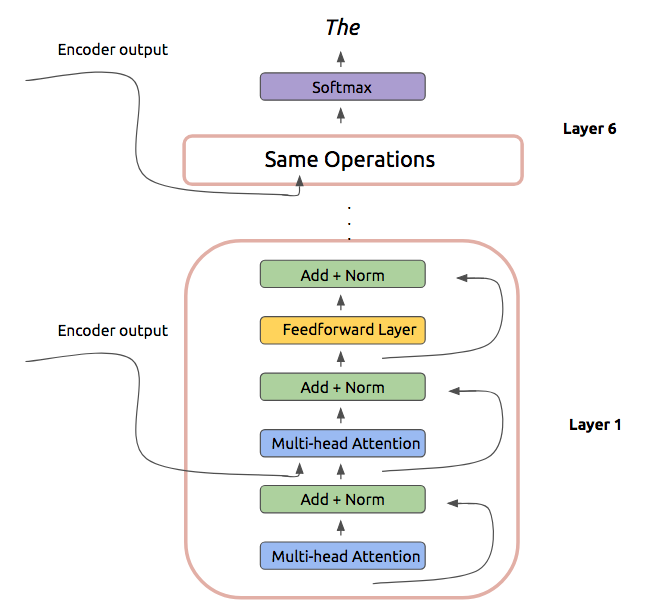
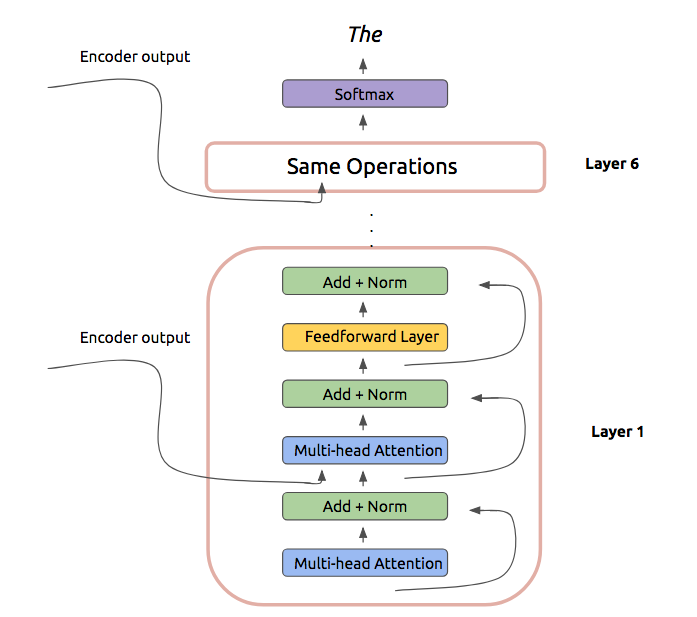
update transformers nit

diff --git a/src/pages/articles/2018-22-10---Transformers-Attention-In-Disguise/index.md b/src/pages/articles/2018-22-10---Transformers-Attention-In-Disguise/index.md
@@ -28,7 +28,7 @@ in the details.
 But first, the TLDR for the paper:
 1) **Transformers demonstrate that recurrence and convolution are not essential for building high-performance natural language models**
 2) **They achieve state-of-the-art machine translation results using a self-attention operation**
-3) **Self-attention is a highly-efficient operation due to its parallelizability and runtime characteristics**
+3) **Attention is a highly-efficient operation due to its parallelizability and runtime characteristics**
 
 If that sounds exciting, read onward!
 
@@ -37,8 +37,8 @@ If that sounds exciting, read onward!
 While the Transformer does not use traditional recurrent units or convolutions, it still takes inspiration from 
 sequence-to-sequence architectures where we encode some input and iteratively decode a desired output. 
 
-How does this play out in practice? Let's focus on the encoder first. There are quite a few details to the process,
-so don't get too lost in the details. All we are doing is encoding some inputs. (include smiley)
+How does this play out in practice? Let's focus on the encoder first. There are quite a few elements to the process,
+so don't get too lost in the details. All we are doing is encoding some inputs 🙂.
 
 Assume we start with a certain phrase that we would like to translate from Spanish to English. The Transformer
 begins by embedding the tokens of the Spanish phrase into a conventional embedding matrix:
@@ -52,7 +52,9 @@ in the next section:
 ![Positional encoding added to embedding matrix in Transformer model](./positional_encoding_added.png)
 
 Our modified input is fed into the first layer of the Transformer encoder. Within each encoder layer,
-we perform a series of operations on the inputs. First off, we feed the input through a multi-head attention operation:
+we perform a series of operations on the inputs.
+ 
+First off, we feed the input through a multi-head attention operation:
 
 ![Multi-head attention operation in encoder of Transformer model](./multihead_attention_encoder.png)
 
@@ -98,7 +100,7 @@ quite a few aspects that warrant some further description.
 The positional encoding added to the encoder and decoder inputs is the first question mark in the model. What's up with that?
 
 Recall that the positional encoding is designed to help the model learn some notion of sequences and relative
-positioning of tokens. This is important of course for language-based tasks and is necessary because we are not making use of any
+positioning of tokens. This is crucial for language-based tasks especially here because we are not making use of any
 traditional recurrent units.
 
 In the Transformer architecture, the positional encoding is a vector described by the following equations:
@@ -121,14 +123,15 @@ tokens at different positions), we form a sinusoid:
 This particular form for the positional encoding was chosen because the value for the encoding at a given position 
 $PE_{pos+k}$ can be represented as a linear function of values for the encoding at earlier positions $PE_{pos}$. This 
 follows from trigonometric identities and is equivalent to saying that a given token can learn to attend to earlier tokens
-in a sequence. This is a **crucial** property for the Transformer.
+in a sequence. This is an **essential** property for the Transformer.
 
 ### Multi-head Attention
 
 The multi-head attention operation is one of the main contributions of this model. So let's dive into how it works.
 
 At a high-level, an attention operation is designed to help a certain token in a natural language architecture focus on certain aspects of another part of the model,
-usually another collection of tokens. Keep in mind that attention operations can be used in other problem domains like computer vision.
+usually another collection of tokens. Keep in mind that attention operations can be used in other problem domains like computer vision,
+even though here we are focusing on natural language.
 
 More formally, an attention takes a *query*, computes some weights with respect to a set of *keys*, and uses those weights
 to form a weighted combination of a collection of *values*. In mathematical terms, the Transformer attention can be
@@ -144,7 +147,7 @@ the previous layer of encoding.
 In the case of the masked decoder self-attention, the same is true except that a mask is applied so that a position of decoding
 can only attend to previous positions. 
 
-In the case of the encoder-decoder self-attention, the keys and values are the output of the encoder layer stack and the
+In the case of the encoder-decoder attention, the keys and values are the output of the encoder layer stack and the
 queries are the output of the previous decoder layer. 
 
 The multi-head attention operation basically means that instead of applying an attention operation once, we will do it several
@@ -166,7 +169,7 @@ outperform its recurrent counterparts. On the English-to-German and English-to-F
 state-of-the-art BLEU scores (41.8 on EN-FR and 28.4 on EN-DE). 
 
 Not only that, but because of its highly parallelizable nature, the Transformer is able to do this at a significantly-reduced
-numbers of FLOPs for training! So the Transformer is *better* and *faster*!
+numbers of FLOPs (floating-point operations) for training! So the Transformer is *better* and *faster*!
 
 
 ## Analysis 
@@ -194,6 +197,8 @@ to recurrence which requires linear-time computations.
 
 ## Final Thoughts
 
-The Transformer is a real rebel on the natural language deep learning scene because of how it eschews conventional network constructs
+The Transformer is a real rebel in the natural language deep learning scene because of how it eschews conventional network constructs
 while still outperforming existing systems. It has challenged a lot of folk wisdom about the necessity of recurrence
 in natural language models. Since being released, the Transformer has been extended and used in new architectures, most recently [BERT](https://arxiv.org/abs/1810.04805).
+
+Is attention *really* all you need? Future work will answer that question!
